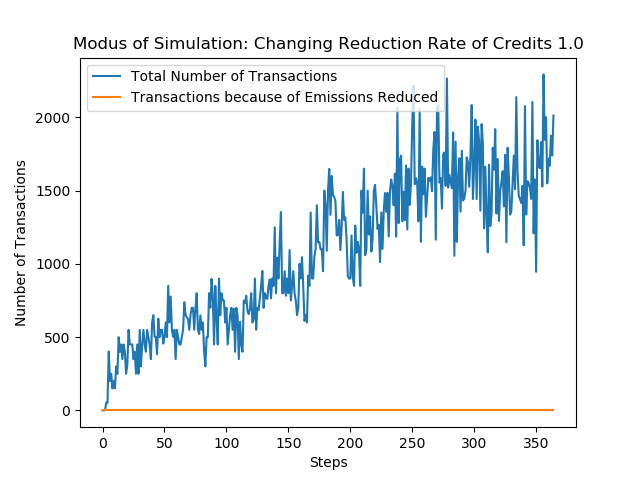
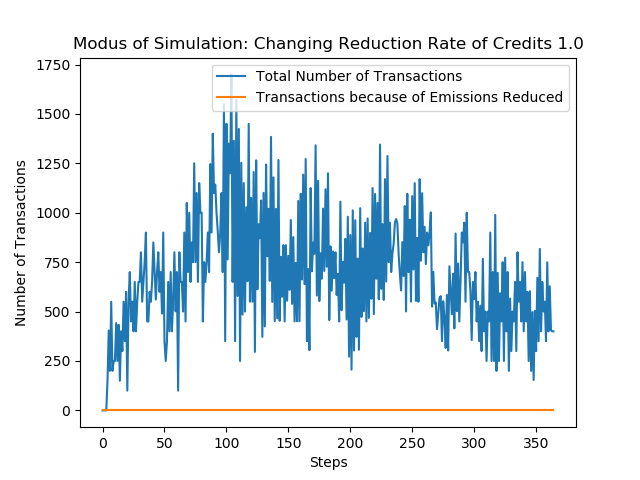
Add files via upload

diff --git a/main.py b/main.py
@@ -95,9 +95,7 @@ def chan_tran_limit(allowances, random_sel, em_red, cred_red_rate, change, limit
 Groups have the following emissions averages,
 and they're used as a proxy for the initial credits.
 (Subject to having divisor of 30 (days per month))
-
 monthly allowances = (avg_emission / 12) - (avg_emission / 12) % 30
-
 Groups  Average Emissions   Allowance credits assigned monthly
 1	    883.39              60
 2	    2886.11             180
@@ -109,8 +107,6 @@ Groups  Average Emissions   Allowance credits assigned monthly
 8	    49125.83            4080
 9	    89848.94            7470
 10	    366534.00           30540
-
-
 
 """
 
@@ -147,13 +143,19 @@ if __name__ == '__main__':
     if modus == 1:
         # Are Free Allowances Reduces over time unexpectedly for Agents
         # Value is per step Reduction Factor
-        chan_cred_red(allowances, random_sel, em_red, limit_transaction = 50, change = 0.005, limit = 8)
+        chan_cred_red(allowances, random_sel, em_red, limit_transaction = 50, change = 0.01, limit = 3)
         pass
     elif modus == 2:
         #"rate" is unexpected credit reduction rate
         #"change" is how much addionaly transactions are allowed per iteration,
         #"limit" is number of iterations
         chan_tran_limit(allowances, random_sel, em_red, cred_red_rate = 0.99, change = 10, limit = 5)
+
+    elif modus == 3:
+        #"rate" is unexpected credit reduction rate
+        #"change" is how much addionaly transactions are allowed per iteration,
+        #"limit" is number of iterations
+        many_runs(allowances, random_sel, em_red, limit_transaction = 20, cred_red_rate = 1, change = 10, limit = 5)
 
 
 

diff --git a/agent.py b/agent.py
@@ -1,5 +1,5 @@
 #Control the price update
-UPDATE_RATE = 0.2#0.5 makes the model unstable (too much changes, always different outcomes)
+UPDATE_RATE = 0.05#0.5 makes the model unstable (too much changes, always different outcomes)
 REDUCE_RATE = 0.3
 
 from math import floor
@@ -122,6 +122,27 @@ class Agent:
             self.max_buying_price = min(self.min_selling_price, self.max_buying_price - abs(self.max_buying_price - self.original_price) * UPDATE_RATE)
         else:
             self.max_buying_price = min(self. max_buying_price_init * 1.3, self.max_buying_price + abs(self.max_buying_price - self.original_price) * UPDATE_RATE)
+
+    def update_selling_price4(self, step):
+        """
+        The selling price is updated if the current step doesn't have record of a transaction.
+        New price is calculated per update rate
+        """
+        if len(self.deals_sold[step]) != 0:
+            self.min_selling_price = self.min_selling_price + 1
+        else:
+            self.min_selling_price = max(self.max_buying_price,self.min_selling_price -1)
+
+    def update_buying_price4(self, step):
+        """
+        The buying price is updated if the current step doesn't have record of a transaction.
+        New price is calculated per update rate
+        """
+        if len(self.deals_bought[step]) != 0:
+            self.max_buying_price = max(self.max_buying_price - 1, 1)
+        else:
+            self.max_buying_price = min(self.max_buying_price + 1, self.min_selling_price)
+
 
 
     def emissions_add(self, add):

diff --git a/environment.py b/environment.py
@@ -338,10 +338,10 @@ class Environment:
             agent.record_price(step)
 
         for agent in buyers:
-            agent.update_buying_price3(step)
+            agent.update_buying_price4(step)
             agent.reset_quota()
         for agent in sellers:
-            agent.update_selling_price3(step)
+            agent.update_selling_price4(step)
             agent.reset_quota()
 
 
